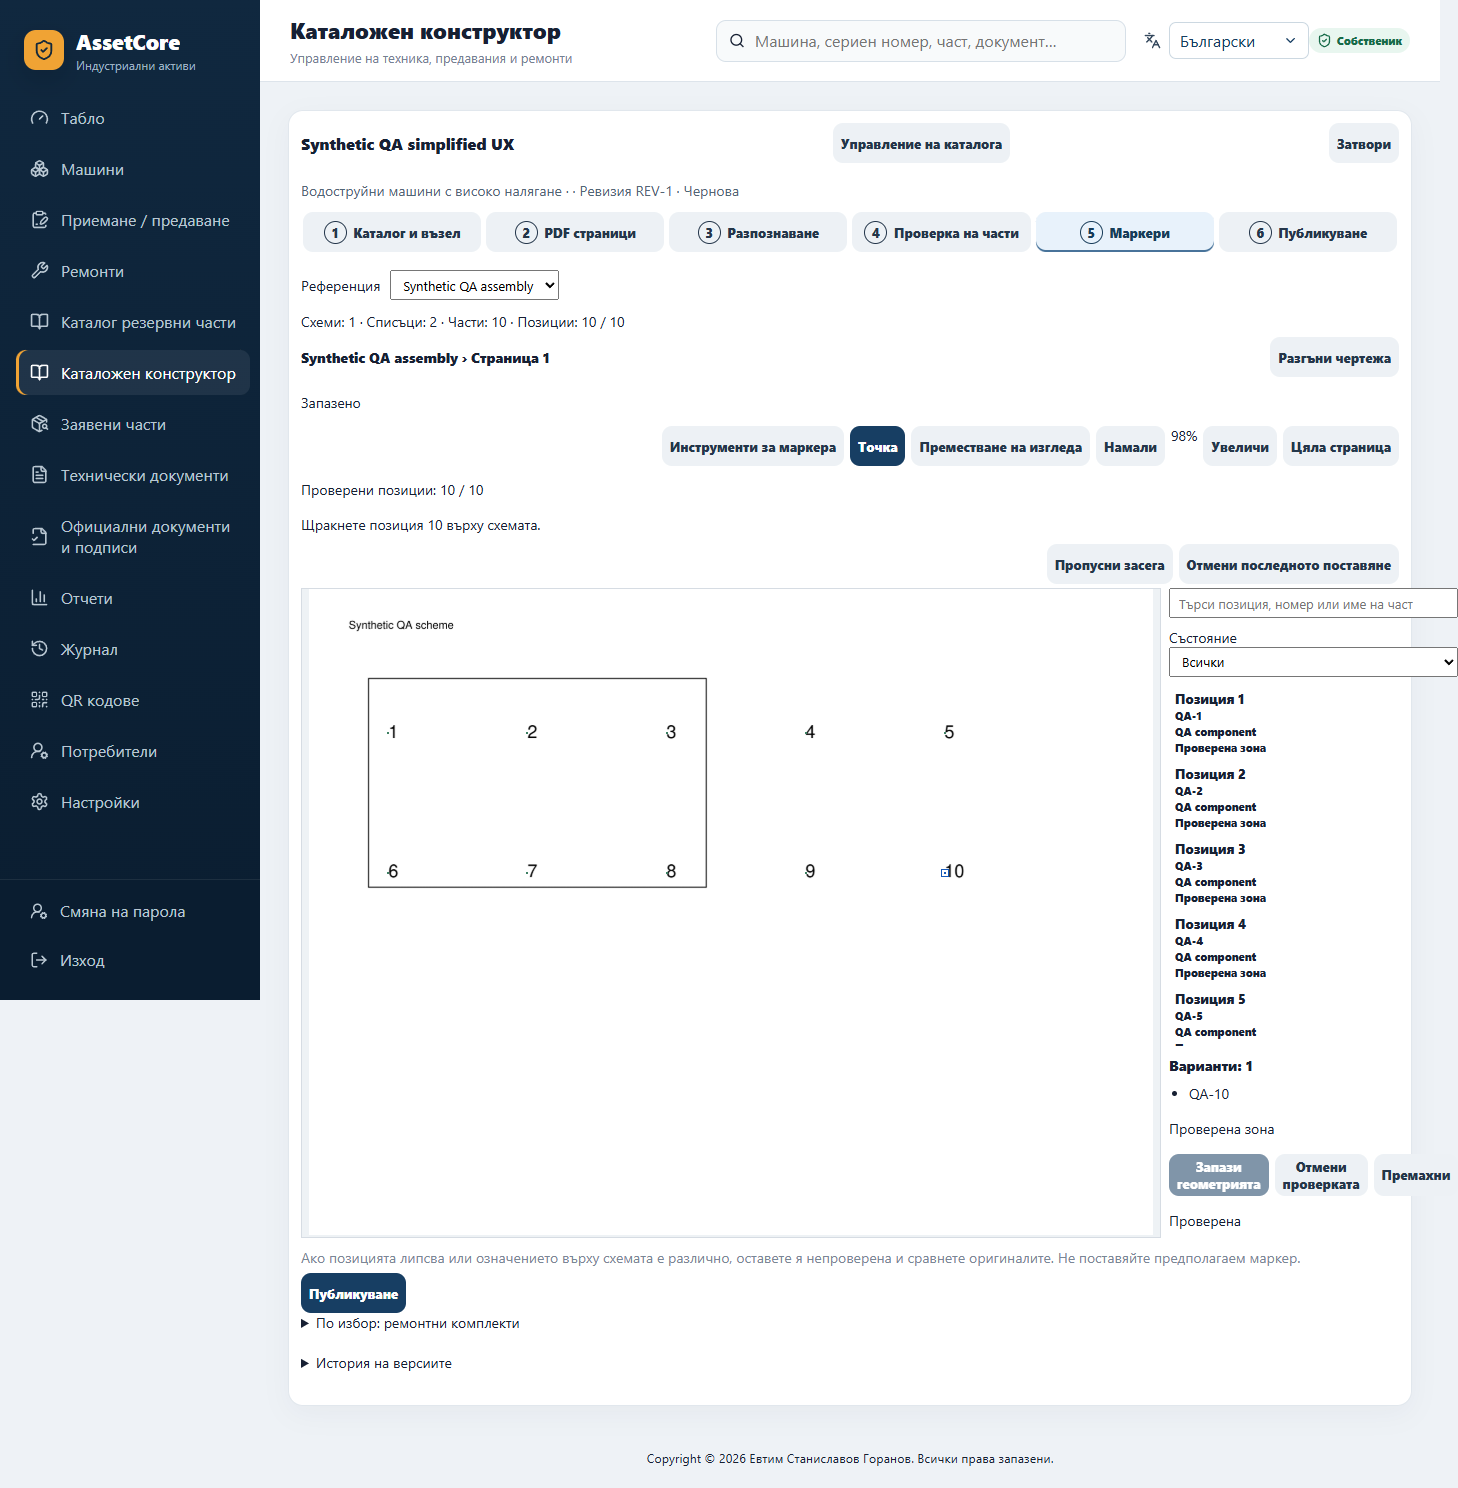
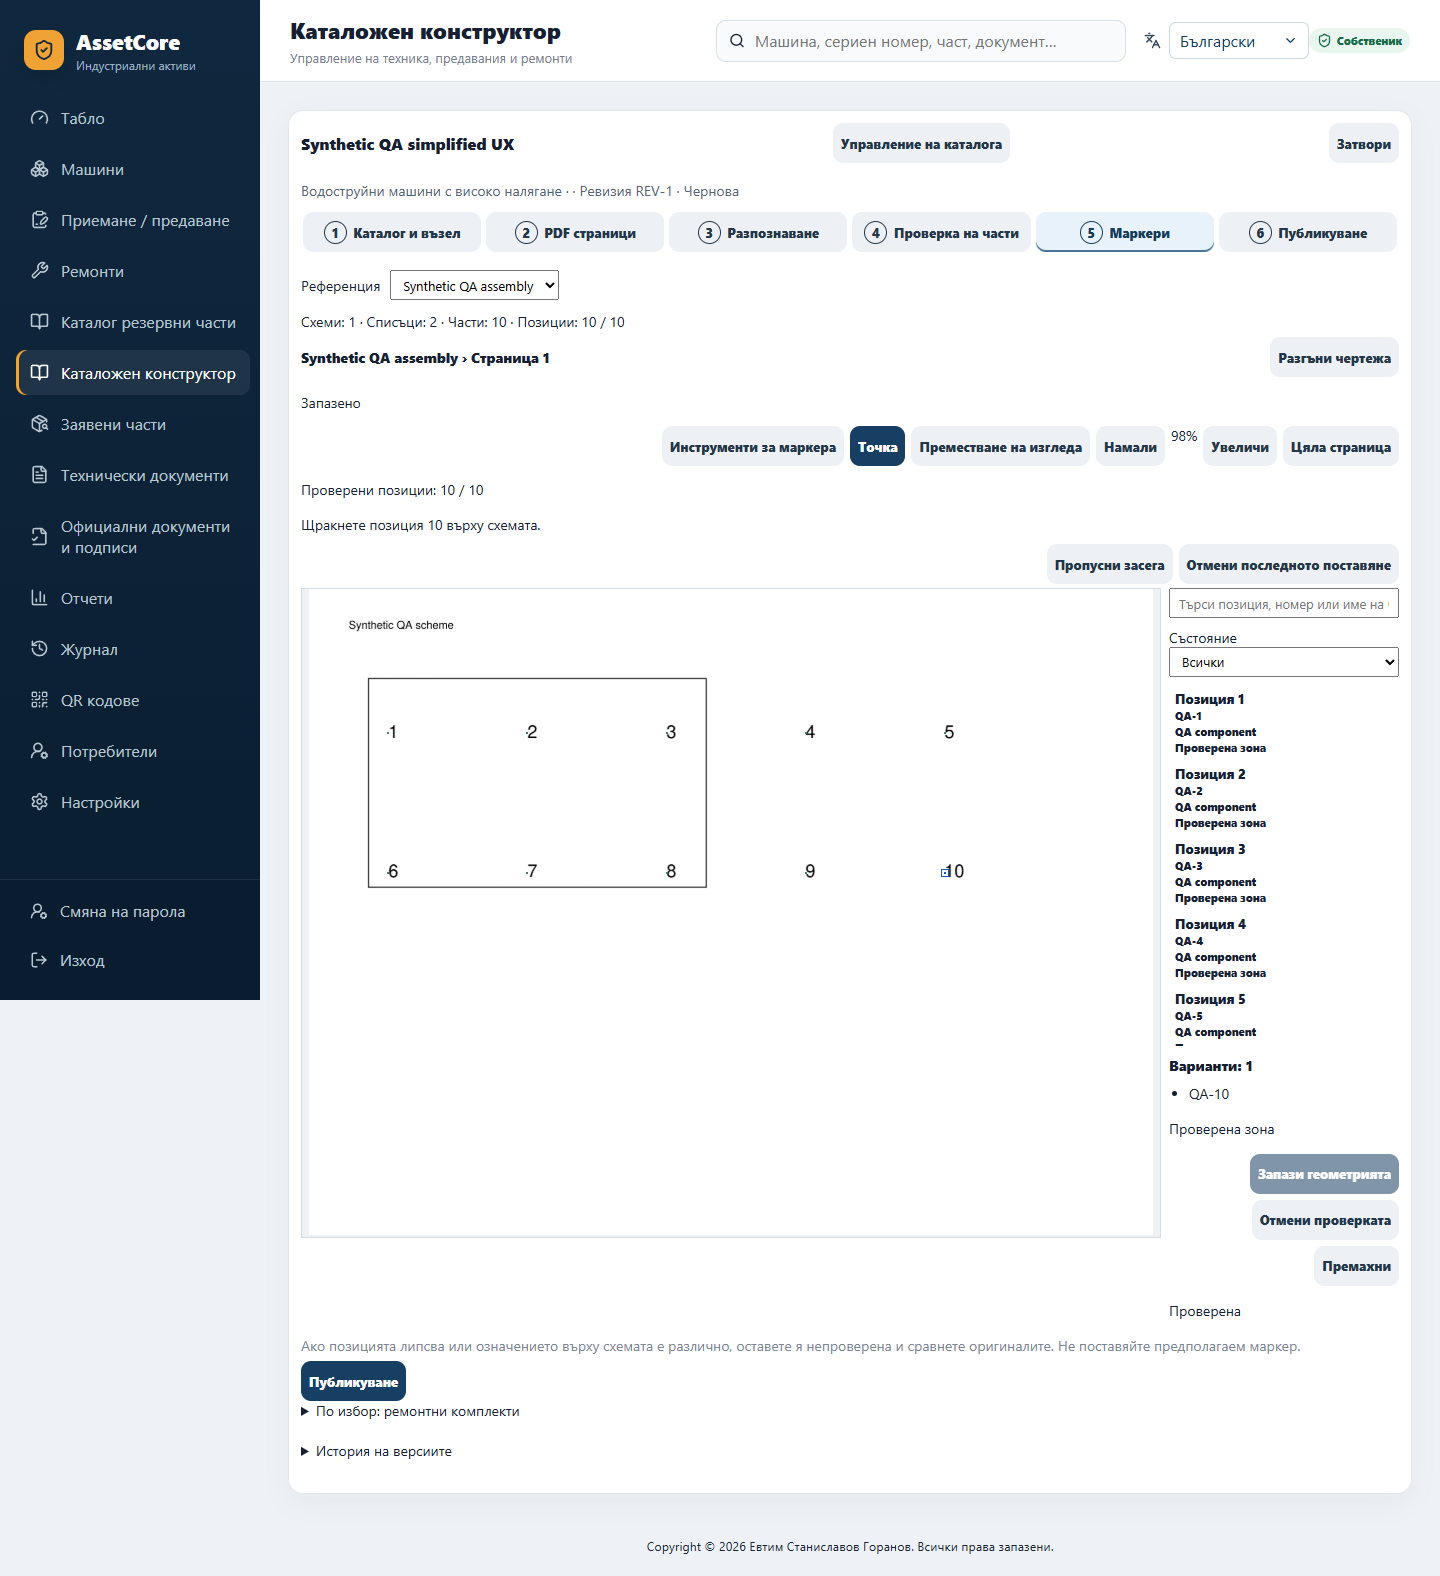
fix(catalog-builder): contain selected marker controls in the review panel

diff --git a/frontend/src/features/catalogBuilder/catalogBuilder.css b/frontend/src/features/catalogBuilder/catalogBuilder.css
@@ -49,6 +49,9 @@
 .source-options summary { padding: 5px 10px; cursor: pointer; }
 .source-options[open] button { position: absolute; z-index: 3; right: 0; background: white; }
 .hotspot-simple .builder-scheme-layout { grid-template-columns: minmax(0, 1fr) 230px; }
+.hotspot-simple .builder-scheme-details { min-width: 0; }
+.hotspot-simple .builder-scheme-details > input, .hotspot-simple .builder-scheme-details select { min-width: 0; max-width: 100%; }
+.hotspot-simple .builder-scheme-details .actions { flex-wrap: wrap; }
 .hotspot-simple .builder-scheme-viewport { height: 65vh; }
 .hotspot-simple .wizard-position-list { max-height: 36vh; }
 .catalog-maintenance > details > summary, .part-edit summary { cursor: pointer; font-weight: 600; }

diff --git a/docs/CATALOG_BUILDER_03C_BG.md b/docs/CATALOG_BUILDER_03C_BG.md
@@ -160,6 +160,8 @@ Desktop: една компактна таблица и сравнение PDF/р
 Touch targets не променят размерите на marker overlay: общият минимален размер на бутоните
 изключва геометричните маркери, които запазват съществуващия отделен hit target. Реални touch
 поставяния при трите ширини проверяват и съответствието на видимите размери с normalized geometry.
+Контролите за последния избран маркер се пренасят в десния панел; overflow се проверява
+и след всяко записване, когато контекстните действия вече са видими.
 
 Има semantic buttons/labels/status/alerts, keyboard row selection, editor heading focus,
 видим focus ring, modal focus trap/restoration, Escape и 44 px mobile action targets.
